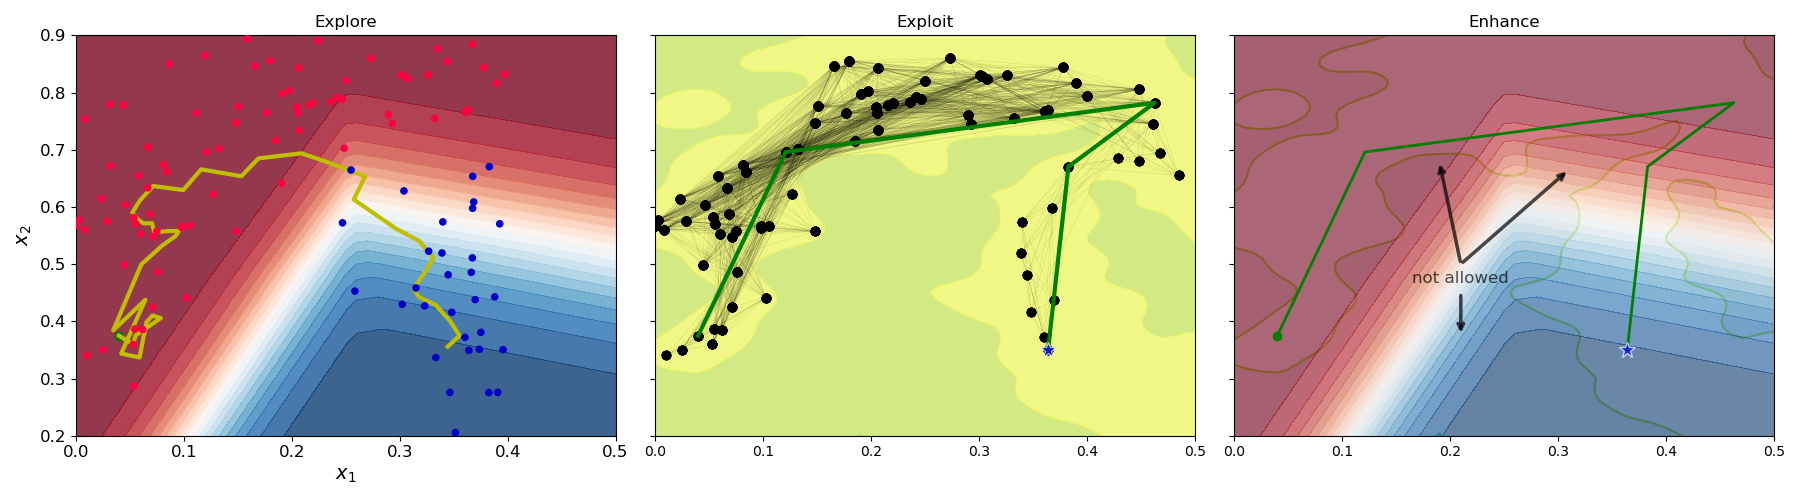
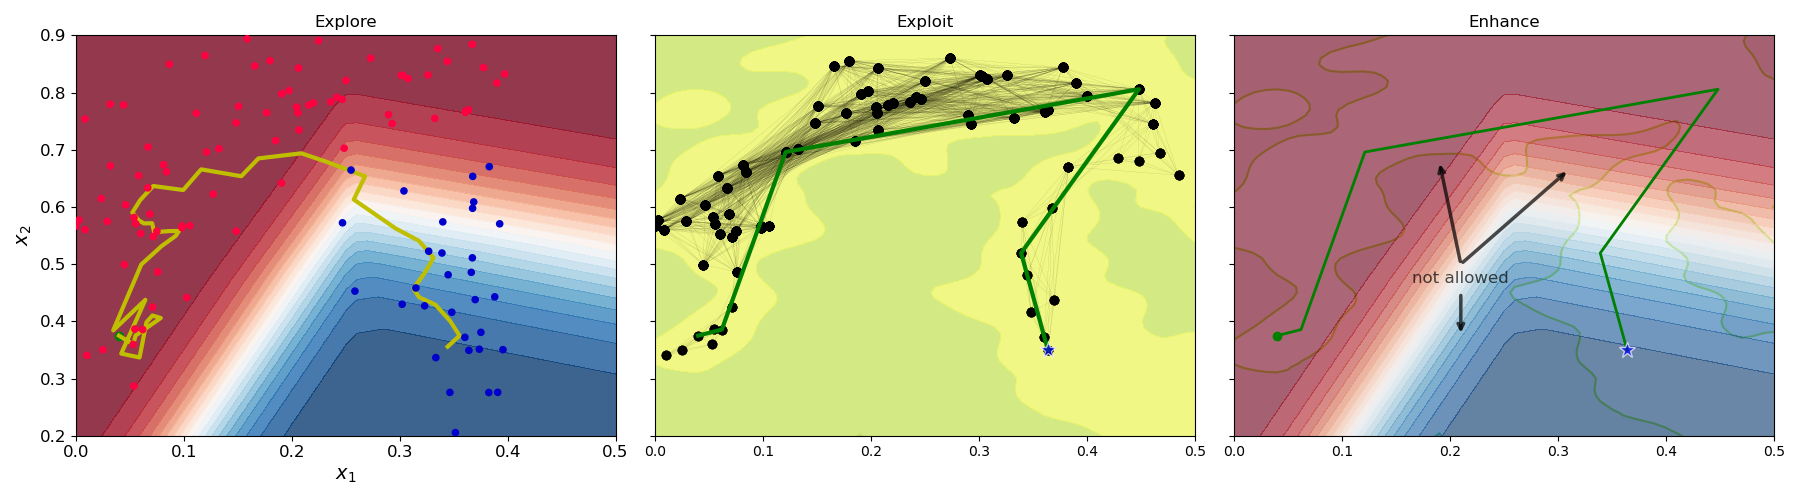
Runs with example and mimic dataset
Still is not dynamic - it simply checks how many features are in the
dataset, and alters the algorithm slightly to compensate.

I suggest that users pass in data that is cast to the correct datatype
so that we can do this dynamically

diff --git a/local_face/local_face.py b/local_face/local_face.py
@@ -198,27 +198,25 @@ class LocalFace:
                 for l in range(i):
                     samples = np.zeros((len(steps[i]), sample + 1))
                     for u in range(len(samples)):
-                        if u == 0 or u == 21:
-                            temp1 = np.ones(
-                                int(np.floor((sample + 1) / 2))) * steps[i][0]
-                            temp2 = np.ones(
-                                int(np.ceil((sample + 1) / 2))) * steps[l][0]
-                            temp3 = np.concatenate((temp1, temp2))
-                            samples[u] = temp3
+                        if len(samples) > 2:
+                            if u == 0 or u == 21:
+                                temp1 = np.ones(int(np.ceil((sample + 1) / 2))) * steps[i][u]
+                                temp2 = np.ones(int(np.floor((sample + 1) / 2))) * steps[l][u]
+                                samples[u] = np.concatenate((temp1, temp2))
+                            else:
+                                samples[u] = np.linspace(steps[i][u], steps[l][u], sample + 1)
                         else:
-                            samples[u] = np.linspace(
-                                steps[i][u], steps[l][u], sample + 1)
+                            samples[u] = np.linspace(steps[i][u], steps[l][u], sample + 1)
                     samples = np.array(samples).T
 
                     score = np.exp(self.dense.score_samples(samples))
-                    test = np.exp(np.sum(score) / (sample + 1))
+                    test = np.sum(score) / (sample + 1)
                     if method == 'avg':
                         w = np.linalg.norm(steps[i] - steps[l], ord=2) * test
                         G.add_edge(i, l, weight=w)
                     elif method == 'strict':
                         if all(k >= tol for k in score):
-                            w = np.linalg.norm(
-                                steps[i] - steps[l], ord=2) * test
+                            w = np.linalg.norm(steps[i] - steps[l], ord=2) * test
                             G.add_edge(i, l, weight=w)
 
             i += 1
@@ -236,33 +234,29 @@ class LocalFace:
         for i in range(len(self.steps)):
             for j in range(i):
                 if np.linalg.norm(self.steps[i] - self.steps[j]) > 0:
-                    for l in range(len(self.steps[i])):
+                    if len(self.steps[i]) == 2:
+                        samples = np.array([np.linspace(self.steps[i][0], self.steps[j][0], sample + 1),
+                                            np.linspace(self.steps[i][1], self.steps[j][1], sample + 1)]).T
+                    else:
                         samples = np.zeros((len(self.steps[i]), sample + 1))
                         for u in range(len(samples)):
-                            if u == 0 or u == 21:
-                                temp1 = np.ones(
-                                    int(np.floor((sample + 1) / 2))) * self.steps[i][0]
-                                temp2 = np.ones(
-                                    int(np.ceil((sample + 1) / 2))) * self.steps[l][0]
-                                temp3 = np.concatenate((temp1, temp2))
-                                samples[u] = temp3
-                            else:
-                                samples[u] = np.linspace(
-                                    self.steps[i][u], self.steps[l][u], sample + 1)
-                        samples = np.array(samples).T
+                            if len(samples) > 2:
+                                if u == 0 or u == 21:
+                                    temp1 = np.ones(int(np.ceil((sample + 1) / 2))) * self.steps[i][u]
+                                    temp2 = np.ones(int(np.floor((sample + 1) / 2))) * self.steps[j][u]
+                                    samples[u] = np.concatenate((temp1, temp2))
+                                else:
+                                    samples[u] = np.linspace(self.steps[i][u], self.steps[j][u], sample + 1)
                     score = np.exp(self.dense.score_samples(samples))
-
+                    test = np.sum(score) / (sample + 1)
                     if method == 'avg':
-                        test = (np.sum(score) / (sample + 1))
+
                         if test > tol:
-                            w = np.linalg.norm(
-                                self.steps[i] - self.steps[j], ord=2) / test
+                            w = np.linalg.norm(self.steps[i] - self.steps[j], ord=2) * test
                             self.G.add_edge(i, j, weight=w)
                     elif method == 'strict':
                         if all(k >= tol for k in score):
-                            test = (np.sum(score) / (sample + 1))
-                            w = np.linalg.norm(
-                                self.steps[i] - self.steps[j], ord=2) / test
+                            w = np.linalg.norm(self.steps[i] - self.steps[j], ord=2) * test
                             self.G.add_edge(i, j, weight=w)
                     else:
                         print('no method selected')
@@ -270,7 +264,7 @@ class LocalFace:
 
         return self.G
 
-    def shortest_path(self):
+    def shortest_path(self, method='strict'):
         """
         Calculate shortest path from factual to counterfactual
         Returns: shortest path through nodes
@@ -288,6 +282,6 @@ class LocalFace:
                 print(
                     f'No path found, lowering probability density from {prob:.2f} to {(prob - threshold_reduction):.2f}')
                 prob = prob - threshold_reduction
-                self.create_edges(tol=prob, method='avg')
+                self.create_edges(tol=prob, method=method)
         print('Completed with density probability: {}'.format(prob))
         return self.path

diff --git a/example.py b/example.py
@@ -14,6 +14,7 @@ factual = np.array([0.04, 0.375])
 k = 5
 thresh = 0.95
 dist = 0.1
+method_type = 'strict'
 # parameters for data generation
 seed = 10
 samples = 300
@@ -49,7 +50,7 @@ print('---------------------------------')
 # generate graph nodes through data from factual to counterfactual
 print(r'Creating graph G (Exploit)...')
 start_exploit = time.time()
-best_steps, G = face.generate_graph(factual, cf, k, thresh, 1, 10, early=True)
+best_steps, G = face.generate_graph(factual, cf, k, thresh, 2, 10, early=True, method=method_type)
 # create edges between viable points and calculate the weights
 """prob = face.dense.score([factual])
 G = face.create_edges(1, 10, method='strict')"""
@@ -59,7 +60,7 @@ print('---------------------------------')
 # calculate shortest path through G from factual to counterfactual
 print(r"Finding shortest path from x to x' through G (Enhance)...")
 start_enhance = time.time()
-shortest_path = face.shortest_path()
+shortest_path = face.shortest_path(method=method_type)
 print('Enhance time taken: {} seconds'.format(np.round(time.time() - start_enhance, 2)))
 print('---------------------------------')
 print('Total time taken: {} seconds'.format(np.round(time.time() - start_total, 2)))
@@ -93,11 +94,10 @@ if not graph:
     ax[2].plot(best_steps[shortest_path, 0], best_steps[shortest_path, 1], '-g', label='Enhance', linewidth=2)
     ax[2].plot(factual[0], factual[1], 'go', label='factual')
     ax[2].plot(best_steps[-1, 0], best_steps[-1, 1], '*b', label='$x^\prime$', markersize=12, alpha=0.7, markeredgecolor='white')
-    """ax[2].plot([factual[0], best_steps[-1, 0]],
+    ax[2].plot([factual[0], best_steps[-1, 0]],
                [factual[1], best_steps[-1, 1]], '-r', linewidth=2)
     ax[2].plot([best_steps[shortest_path[1], 0], best_steps[shortest_path[3], 0]],
                [best_steps[shortest_path[1], 1], best_steps[shortest_path[3], 1]], '-r', label='illegal edge', linewidth=2)
-"""
     ax[2].title.set_text('Enhance')
     ax[2].annotate("", xy=(0.21, 0.375), xytext=(0.21, 0.45), arrowprops=dict(arrowstyle="->", lw=2.5, color='black', alpha=.7))
     ax[2].text(0.21, 0.475, 'not allowed', va='center', ha='center',

diff --git a/case_study_example.py b/case_study_example.py
@@ -17,13 +17,15 @@ graph = False  # plotting
 scale = True  # stanardised input data
 
 # parameters for locating counterfactual and path
-k = 5
+k = 20
 thresh = 0.9
 dist = 0.1
 seed = 42
+method_type = 'avg'
+prob_dense = 0.8
 
 # parameters for density model creation
-band_width = 0.025
+band_width = 0.25
 
 features = ['airway', 'fio2', 'spo2_min',
             'hco3', 'resp_min', 'resp_max',
@@ -94,7 +96,7 @@ constraints = [
     [],  # 'bun',
     [],  # 'bmi',
     [],  # 'los',
-    [],  # 'age',
+    [">-0.622747+0.01", "<-0.622747-0.01"],  # 'age',
     [],  # 'sex'
 ]
 
@@ -126,7 +128,7 @@ print('---------------------------------')
 # generate graph nodes through data from factual to counterfactual
 print(r'Creating graph G (Exploit)...')
 start_exploit = time.time()
-best_steps, G = face.generate_graph(factual, cf, k, thresh, 1, 10, early=True)
+best_steps, G = face.generate_graph(factual, cf, k, thresh, prob_dense, 10, early=True, method=method_type)
 # create edges between viable points and calculate the weights
 """prob = face.dense.score([factual])
 G = face.create_edges(1, 10, method='strict')"""
@@ -138,7 +140,7 @@ print('---------------------------------')
 # calculate shortest path through G from factual to counterfactual
 print(r"Finding shortest path from x to x' through G (Enhance)...")
 start_enhance = time.time()
-shortest_path = face.shortest_path()
+shortest_path = face.shortest_path(method=method_type)
 print('Enhance time taken: {} seconds'.format(
     np.round(time.time() - start_enhance, 2)))
 print('---------------------------------')
